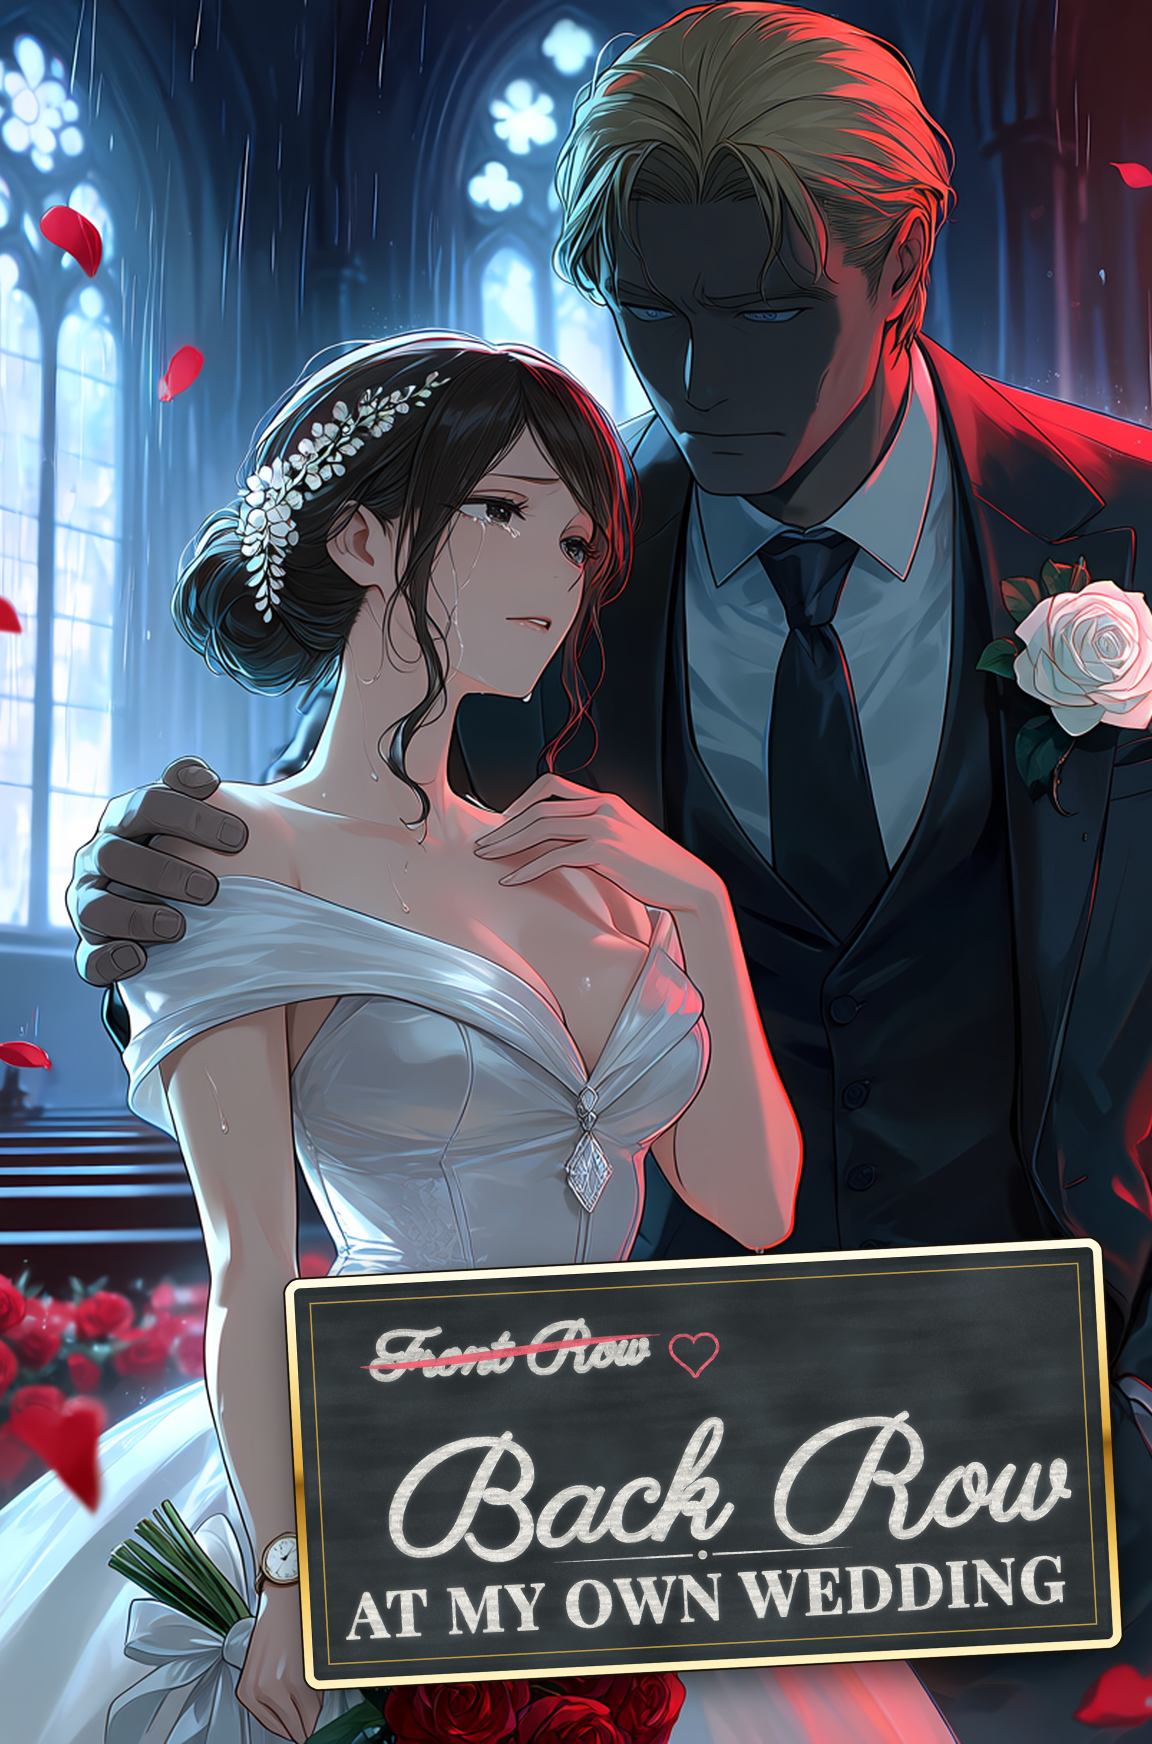
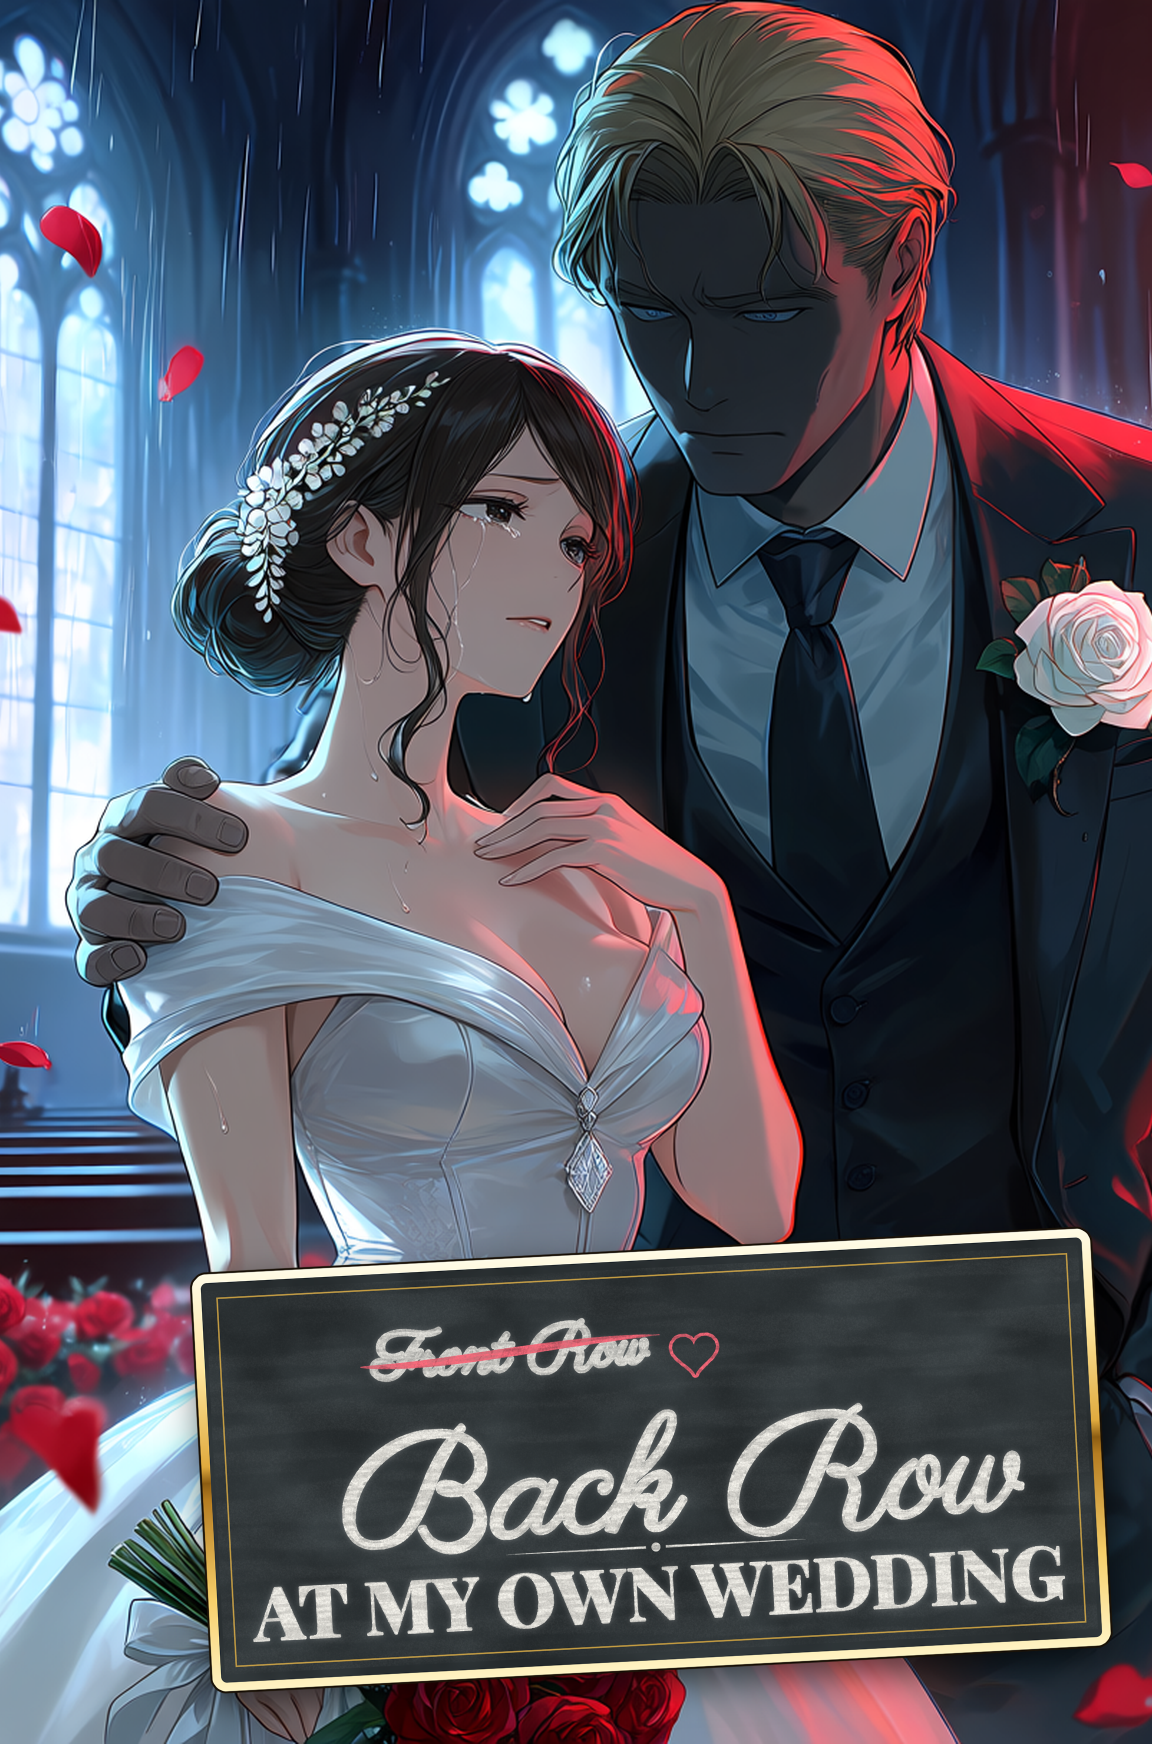
Cover titles v4: bigger lead-ins on He Burned, Back Row, Thirty Days
He Burned the Capital: He Burned the 84 -> 112 px with a 6 px dark stroke;
ember sparks pulled in so they stay off his hand. Back Row at My Own
Wedding: AT MY OWN WEDDING cap 44 -> 52 in Playfair 800, board moved 50 px
left to fit. Thirty Days With the Number One Hero: THIRTY DAYS WITH THE
50 -> 58 px, untracked, the calendar strip now stops short of the No.1
badge. ALLOCATION rows and zones updated; the checker passes.

Changed region(s): [[0.1562, 0.6812, 1.0, 0.9908]]

diff --git a/docs/stories-50/cover-style-v3/titles/ALLOCATION.md b/docs/stories-50/cover-style-v3/titles/ALLOCATION.md
@@ -44,14 +44,14 @@ are at least ~45% of its cap height, so every word still reads on a 160 px shelf
 |---|---|---|---|---|---|---|---|---|---|---|---|
 | 1 | story_affection_97 | Affection: 97 | holy-high-key | Court romance-fantasy comedy; airy, teasing | Cormorant | Orbitron | LR | glass status window | .33-.94,.45-.93 | .37-.63,.06-.30 | A frosted-glass status window about 60% of the cover wide over the chest and waist, below his hand (pearl-white plate, deep rose-gold border, a stronger pink outer glow so the window lifts off the white suit). Hero: a giant "97" in Cormorant 700 lining figures, rose-to-gold gradient; above it "Affection" in Cormorant italic 700, deep rose #9b2251 with a white halo; an Orbitron "CROWN PRINCE" micro-label and a 97% pink gauge bar with a heart sell the game window. Art: white, silver, ice blue. |
 | 2 | story_annulled_then_claimed | Annulled, Then Claimed | gilded-over-the-shoulder | Villainess romance fantasy; scandal turned rescue, glamorous | Great Vibes | Cinzel | BT | gold swash + strike rule | .08-.92,.70-.95 | .44-.64,.05-.22 | "ANNULLED, THEN" in Cinzel 800 ivory caps at 88 px (cap about 62 px; was 62 px tracked wide, lost on the shelf) with a dark-green keyline and shadow, and a crimson rule struck through ANNULLED; hero "Claimed" huge in Great Vibes, gold metal fill, deep-emerald stroke and a swash underline, centred on the emerald coat. Gold on emerald, one red line. |
-| 3 | story_back_row_at_my_own_wedding | Back Row at My Own Wedding | melodrama-red-accent | Modern revenge melodrama with comedy; humiliation at the altar | Parisienne | Playfair Display | LR | chalk welcome board | .24-.98,.70-.97 | .17-.44,.18-.36; .50-.74,.03-.19 | The wedding welcome board, big: a charcoal slate with a gold frame, tilted -3 deg, 73% of the cover wide at lower right under both faces, where her hand seems to hold it and the roses show below. Hero "Back Row" in Parisienne chalk at a 124 px cap with a 3 px chalk stroke so the script has weight; "AT MY OWN WEDDING" in Playfair Display 700 caps at a 44 px cap; above them a crossed-out "Front Row" in chalk with a red chalk strike and a red chalk heart. Chalk white on slate against blue church light and red roses. |
+| 3 | story_back_row_at_my_own_wedding | Back Row at My Own Wedding | melodrama-red-accent | Modern revenge melodrama with comedy; humiliation at the altar | Parisienne | Playfair Display | LR | chalk welcome board | .16-.97,.70-.98 | .17-.44,.18-.36; .50-.74,.03-.19 | The wedding welcome board, big: a charcoal slate with a gold frame, tilted -3 deg, 73% of the cover wide at lower right under both faces, where her hand seems to hold it and the roses show below. Hero "Back Row" in Parisienne chalk at a 124 px cap with a 3 px chalk stroke so the script has weight; "AT MY OWN WEDDING" in Playfair Display 800 caps at a 52 px cap (was 700 at 44), the board moved 50 px left to fit it; above them a crossed-out "Front Row" in chalk with a red chalk strike and a red chalk heart. Chalk white on slate against blue church light and red roses. |
 | 4 | story_cleanup_crew_e_rank | Cleanup Crew, E-Rank | system-window | Dungeon action comedy, underdog; blue-collar | Bungee | none | DG | hazard tape | .04-.96,.08-.29 | .42-.60,.34-.48 | Hazard tape strung across the corridor in front of the red gate, rising +7 deg above her head: hero "CLEANUP CREW" in black Bungee on yellow #ffd21a tape with black chevron ends, and "E-RANK" smaller in a worn grey hex rank badge (red E) pinned to the tape end. Yellow and black against acid green; the gate stays half visible. |
 | 5 | story_crest_academy | Crest Academy | holy-high-key | Noble academy fantasy, stats and duels; bright rivalry | Marcellus | none | BT | academy seal lockup | .10-.90,.61-.97 | .42-.66,.06-.24 | An academy seal: a large navy enamel shield (silver rim and inline, a silver star over two crossed rapiers) stands behind the middle of hero "CREST", set across it in Marcellus at about 76% of the cover width, navy enamel with a silver keyline, a navy edge and a pearl halo so the letters read on the white skirt and on the shield; "ACADEMY" in Marcellus at 92 px (cap about 65 px; was 50 px tracked wide, lost on the shelf), white-silver with a navy keyline, on a navy ribbon with forked tails over the shield's point. Navy and silver on pearl white. |
 | 6 | story_cut_loose_at_floor_99 | Cut Loose at Floor 99 | ink-and-one-red | Dark fantasy dungeon survival and revenge; cold, grim | Stardos Stencil | none | LL | carved stencil + red slice | .03-.62,.62-.98 | .48-.63,.12-.27 | One lower-left block over the black coat and the rocks, upright and cold: "CUT LOOSE" / "AT FLOOR" in Stardos Stencil 700 bone white with a black stroke (76 px cap), directly over a giant hero "99" (356 px cap) in the same stencil serif, carved: a stone-grey fill with a chisel bevel and a hard black shadow. One red cut slices both 9s on a steep diagonal: a see-through gap with a red line in it, the lower half slid down along the cut. Ink and one red. (Was Rubik Dirt, whose round speckled 9s read as cartoon.) |
 | 7 | story_echo_class | Echo Class | thumbnail-pop | Superpower academy action comedy; loud, cocky | Russo One | Teko | LR | outline echoes | .36-.96,.78-.97 | .38-.64,.14-.32 | Hero "ECHO" in Russo One, white with a black stroke and a +8 deg slant, trailed by three outline-only copies offset down-left in electric blue #2aa7ff fading 70/40/15% (the copied power); "CLASS" in Teko 700 white on a blue parallelogram tab. Right-aligned over the hips; flat yellow and blue. |
 | 8 | story_every_platform_a_world | Every Platform a World | cosy-lamp-bokeh | Isekai station-keeper fantasy; warm, wistful mystery | Train One | none | BT | split-flap departure board | .03-.97,.73-.99 | .53-.75,.07-.26 | A railway departure board across the bottom, over her legs: a black split-flap housing with a thin steel rim; hero "PLATFORM" in cream Train One on eight big black flaps (a dark split line across each), "EVERY" on amber flaps above it at the left, and "A WORLD" on amber flaps at the right of the bottom row, led in by a long cream arrow; the amber flaps are 84x106 with a 62 px cap (were 60x74 at 42), the housing taller to fit. Cream, amber and black against the lamplit carriage. No hanging sign, no paper card (that is the One-Copper Inn's device). |
 | 9 | story_finals_week_outbreak | Finals Week Outbreak | ink-and-one-red | Campus zombie horror; 2 a.m. dread | Black Ops One | Big Shoulders Display | LL | torn label + stencil (sample) | .04-.62,.73-.97 | .36-.63,.10-.34 | Sample, kept as approved: torn paper label with tape, "FINALS WEEK" in Big Shoulders Display black, hero "OUTBREAK" in red Black Ops One stencil, tilted -6 deg. Ink white and one red. |
-| 10 | story_he_burned_the_capital | He Burned the Capital | melodrama-red-accent | Dark romance fantasy; obsession, dread, longing | Cinzel | Cormorant | BT | fire gradient + embers | .06-.94,.72-.96 | .32-.58,.05-.26; .62-.84,.05-.20 | "He Burned the" in Cormorant italic 700, ivory with a dark stroke; hero "CAPITAL" in Cinzel 900 with a fire gradient (deep red to orange to gold, bottom to top), an ember-orange screen glow, scattered ember sparks and a smoky dark shadow. Fire over the dark coat and crimson dress. |
+| 10 | story_he_burned_the_capital | He Burned the Capital | melodrama-red-accent | Dark romance fantasy; obsession, dread, longing | Cinzel | Cormorant | BT | fire gradient + embers | .06-.94,.72-.97 | .32-.58,.05-.26; .62-.84,.05-.20 | "He Burned the" in Cormorant italic 700 at 112 px (was 84), ivory with a 6 px dark stroke; hero "CAPITAL" in Cinzel 900 with a fire gradient (deep red to orange to gold, bottom to top), an ember-orange screen glow, scattered ember sparks and a smoky dark shadow. Fire over the dark coat and crimson dress. |
 | 11 | story_human_row_three | Human, Row Three | hot-pink-poster | Monster-academy romcom; bright, cheeky | Dela Gothic One | Teko | DG | extruded pop + halftone | .04-.96,.75-.97 | .33-.63,.05-.23 | Hero "HUMAN," in Dela Gothic One, hot pink #ff3f8e sampled from the field with a white inner stroke, black outer stroke, deep black extrusion and a halftone drop shadow, rising +8 deg across the black trousers; "ROW THREE" in Teko 600 white on a black classroom seat placard under the right end. Flat pink pop poster. |
 | 12 | story_ice_queen_s_fake_boyfriend | Ice Queen’s Fake Boyfriend | sunlit-webtoon-duo | Campus fake-dating romcom; sunny, sweet | Fredoka | Mochiy Pop One + Bungee | TB | sticker letters (sample) | .04-.96,.02-.22 | .17-.39,.34-.53; .54-.80,.27-.48 | Sample, kept as approved: sticker letters with navy stroke and extrusion across the sky, "Ice Queen's" in Mochiy Pop One, a pink "FAKE" tag in Bungee, hero "Boyfriend" in Fredoka. |
 | 13 | story_inherited_one_failing_clan | Inherited: One Failing Clan | gilded-over-the-shoulder | Modern crime-family comedy-drama; found family, deadline | Shippori Mincho B1 | none | DG | gold-leaf family plaque | .04-.94,.63-.98 | .38-.55,.03-.17 | The family's door plaque, the whole lockup tilted -6 deg like a sign hanging crooked: "INHERITED:" in cream Shippori Mincho B1 800 (cap 76) on a rough red hanko-ink label directly above "ONE FAILING" in cream Shippori caps, then hero "CLAN" in black lacquer with a gold-leaf edge on a matte gold-leaf plate in a black lacquer frame, flanked by two black-and-gold four-diamond family mon. Cream, red, black and gold over the green kimono; flat gold leaf, no bevelled letters. |
@@ -86,7 +86,7 @@ are at least ~45% of its cap height, so every word still reads on a 160 px shelf
 | 42 | story_the_wolf_clan_s_guest | The Wolf Clan’s Guest | cosy-lamp-bokeh | Beastfolk reverse-harem romance; winter camp, warm | Grenze Gotisch | none | BT | stitched leather banner | .06-.94,.75-.97 | .46-.64,.11-.25 | A stitched brown leather banner (ribbon shape, stitched edge) over the fur and boots, with "THE WOLF CLAN'S" at 92 px (was 58 px) on its own darker stitched strap above it so the bone letters never sit on white fur, and hero "GUEST" in Grenze Gotisch 800 bone-white from the fur with a dark keyline, a wolf-paw print at one end and a light frost sparkle. Bone and leather in lantern light. |
 | 43 | story_the_zombie_who_said_please | The Zombie Who Said Please | hot-pink-poster | Zombie survival comedy; polite undead | Creepster | Caveat | LR | slime drips + speech bubble | .40-.96,.73-.97 | .36-.62,.07-.29 | "THE" over hero "ZOMBIE" (about 0.48 of its cap) in Creepster slime green #8bd649 from the jacket with a dark stroke and drips, "who said" in Caveat bold (ascenders about 0.53 of ZOMBIE's cap) white with a dark stroke, a white outer line and ZOMBIE's pink drop shadow so it holds on the black trousers, and a pink speech bubble saying "Please" in Caveat bold black, right-aligned over the black trousers and green jacket. Slime green and pink. |
 | 44 | story_thin_walls | Thin Walls | melodrama-red-accent | Neighbour-rival romcom; sniping, close | Big Shoulders Display | none | LL | weight split + hairline wall | .03-.69,.86-.97 | .36-.60,.05-.21; .52-.70,.18-.31 | The pun in weights, one line under the rose, over the dark suit: "THIN" in Big Shoulders Display 400 ice-white at the same 142 px cap as WALLS (the pun is in the weight, not the size) with a 3 px dark keyline, a single glowing hairline standing between the words like the wall, then hero "WALLS" in Big Shoulders Display 900 at a 142 px cap, white-to-ice fill with a red keyline and a dark outer line so it never melts into the red dress. Ice white and red on blue-black. |
-| 45 | story_thirty_days_with_the_number_one_hero | Thirty Days With the Number One Hero | sunlit-webtoon-duo | Superhero fake-dating romcom; sunny, showy | Bangers | Alfa Slab One | TB | comic halftone + calendar strip | .06-.94,.03-.21 | .04-.22,.37-.50; .26-.45,.24-.40 | In the big sky: "THIRTY DAYS WITH THE" in Alfa Slab One red on a white tear-off calendar strip, then hero "NUMBER ONE HERO" in Bangers yellow #ffd23f with a navy stroke and halftone shadow, and a star badge "No.1". Comic yellow, navy and red on blue sky. |
+| 45 | story_thirty_days_with_the_number_one_hero | Thirty Days With the Number One Hero | sunlit-webtoon-duo | Superhero fake-dating romcom; sunny, showy | Bangers | Alfa Slab One | TB | comic halftone + calendar strip | .04-.95,.03-.23 | .04-.22,.37-.50; .26-.45,.24-.40 | In the big sky: "THIRTY DAYS WITH THE" in Alfa Slab One red at 58 px (was 50, tracked) on a white tear-off calendar strip that stops short of the badge, then hero "NUMBER ONE HERO" in Bangers yellow #ffd23f with a navy stroke and halftone shadow, and a star badge "No.1". Comic yellow, navy and red on blue sky. |
 | 46 | story_three_feet_apart | Three Feet Apart | hot-pink-poster | Enemies-to-lovers court-mage comedy; bickering | Rampart One | none | WR | 3D outline + magic tether | .04-.41,.80-.98; .60-.98,.83-.98 | .32-.63,.04-.24 | The words are literally apart, either side of his pointing hand: "THREE" / "FEET" on the left (cap 96 px) and hero "APART" larger on the right (stretched to about a 159 px cap), in Rampart One (built-in 3D outline) white with a heavy black stroke, joined across the hand by a glowing green magic tether drawn as a measuring tape. White, black and spell-green on grey and pink. |
 | 47 | story_three_heroines_and_a_porter | Three Heroines and a Porter | sunlit-webtoon-duo | Harem isekai ensemble comedy; bright, chaotic | Kaushan Script | Gochi Hand | BT | brush script + luggage tag | .03-.97,.75-.98 | .16-.40,.11-.26; .50-.70,.13-.26 | Hero "Three Heroines" in Kaushan Script, white fill with a red double stroke and a heavy navy outer stroke and shadow that part it from the red sleeves, over the meadow and legs; "and a Porter" handwritten in Gochi Hand (Porter cap about 67 px) on a big kraft luggage tag at lower right, tied to the title by a string from its eyelet. White, red and kraft on green and sky blue. |
 | 48 | story_three_skills_a_morning | Three Skills a Morning | ink-and-one-red | Skill-draw isekai mystery; noon deadline | Press Start 2P | none | LR | pixel skill cards | .46-.97,.70-.97 | .27-.48,.17-.35 | Three skill cards fanned over the dark coat at lower right (white cards, black pixel frames, the middle one red), as if just drawn: hero "THREE SKILLS" in Press Start 2P black with a white outline across the fan and "A MORNING" under it at 50 px (0.64 of the hero), right-aligned to SKILLS, with a pixel sun to its left. Black, white and one red over ink line art; the red knife on the left stays clear. |
